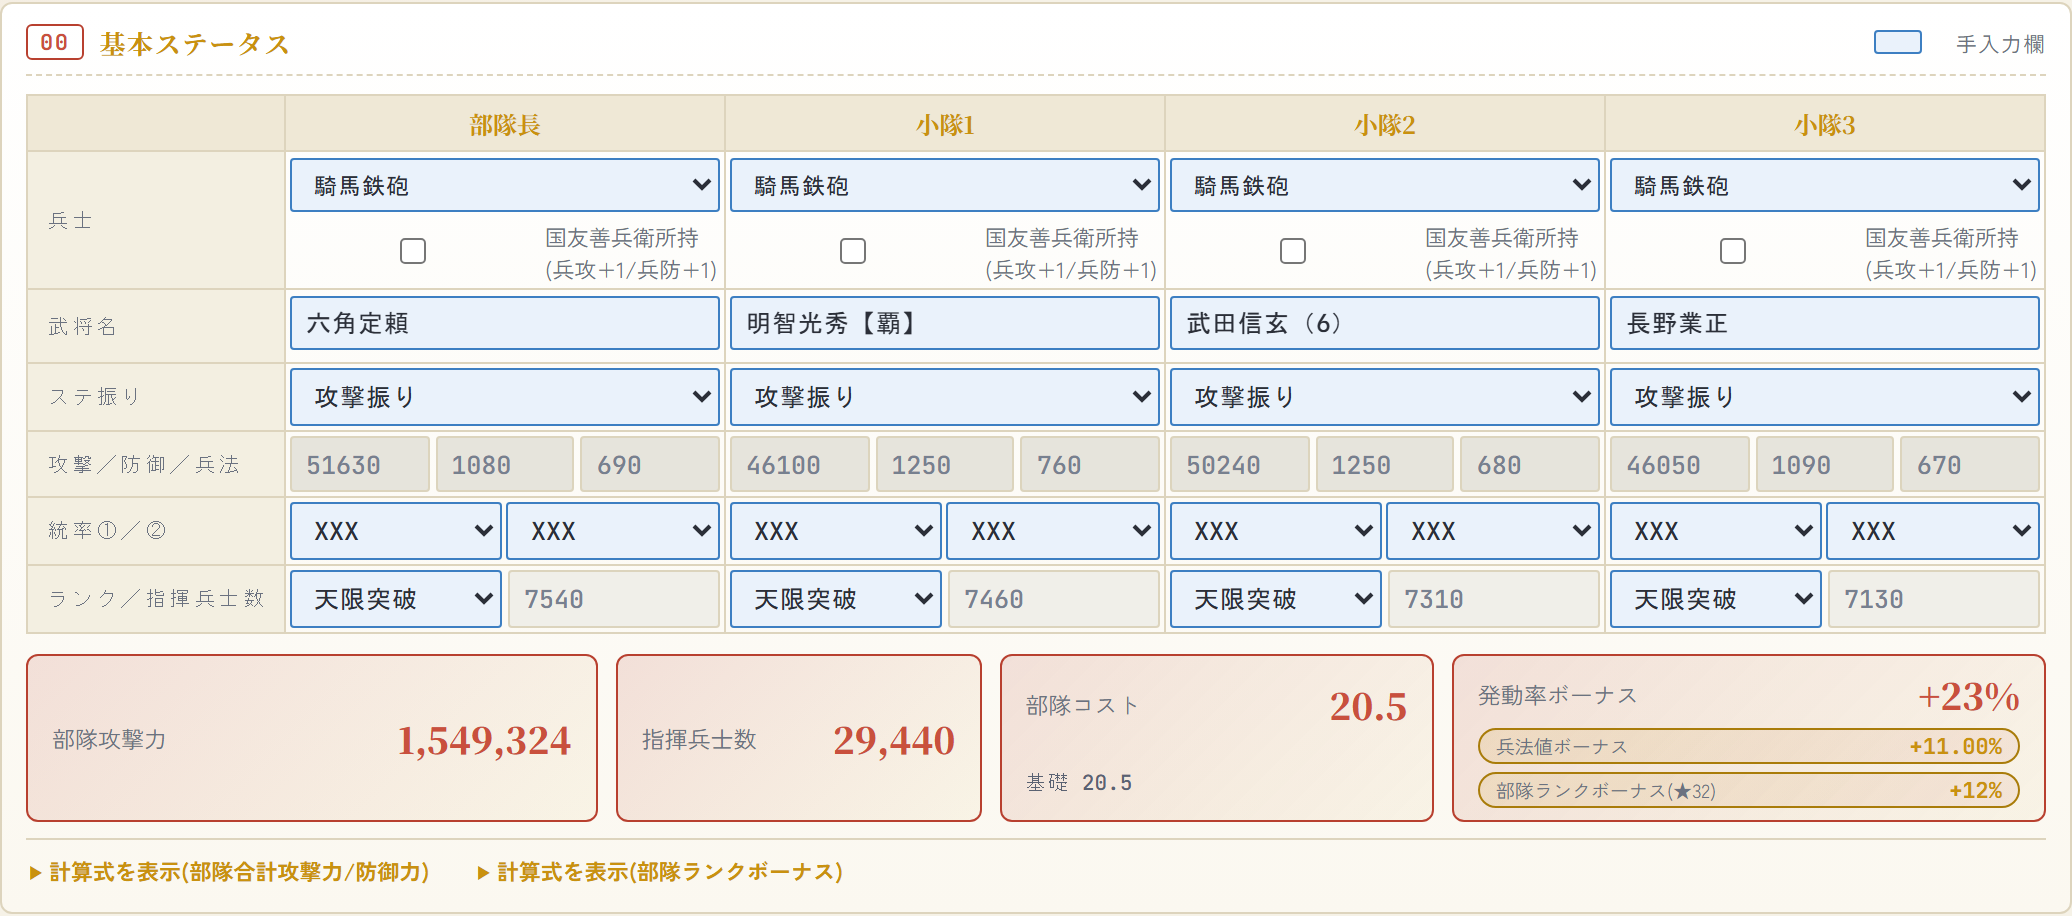
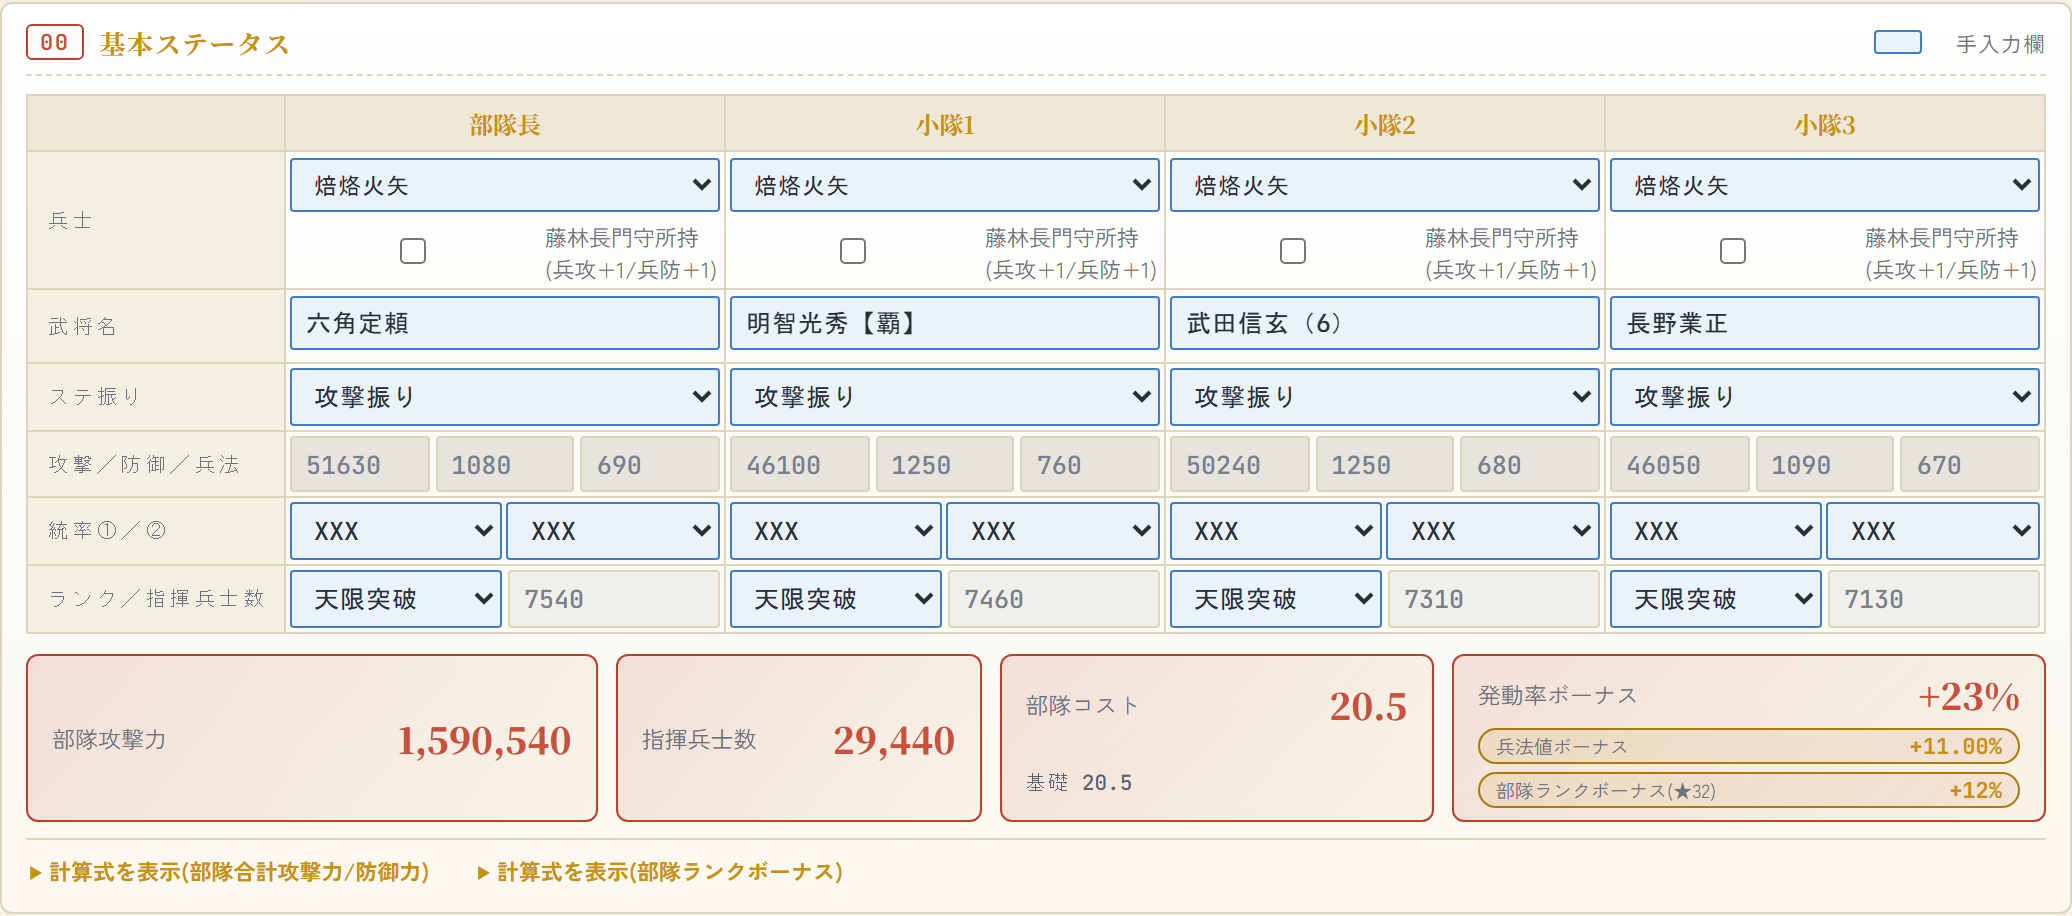
記事「攻撃シミュレーターの使い方」を指摘に沿って修正
■ 文章
- 「ぶん」→「分」(4人分/発動しない枠がある分/陣補正が入っていない分)
- 兵士未選択の説明を実挙動に合わせた(エラーはダイアログで出る。あわせて兵士欄が赤枠)
- 題名・titleタグ・記事一覧のカードに「(v2026-08-12.5 時点)」を付け、リード文にも
  「この版を見て書いている」旨を添えた。シミュレーターを作り替えると記事とずれるため、
  大型更新時は記事ごと作り直す前提で現状の版が分かるようにする

■ 追記した節
- スキルレベル選択: スキル名を選ぶとLV10・TR1〜TR6の選択肢が続けて出ること、
  選ぶと「天弦ノ威軍TR5」のように段階つき表記になること、TR6は一部のみであること
- 名声と防御参加武将数: 名声の補正表(49以下=なし/50〜99=+2%/100以上=+2%+名声÷100、上限+5%)。
  部隊攻撃力には乗らず最終攻撃力にだけ掛かる点も明記
- 総攻撃力を上げるスキルは別扱い: 上昇%欄が「総攻撃力+40%」表示になり、
  16枠の合計には入らず最後に部隊全体へ掛かること
- 画面右下のバージョン表示: 読み方と、不具合報告時に一緒に写してほしい旨

■ 画像
スクリーンショットを撮り直した(assets/img/blog/guide-02〜04を差し替え、06〜09を追加)。
編成を変えて、指摘のあった点が画面に写るようにしている:
  ・スキル名に段階表記(天弦ノ威軍TR5 / 滅神五芒星LV10 / 雄飛新世TR5)が出る
  ・摩利支天ノ法は初期スキルではなく追加1枠に置く
  ・総攻撃力が上がる武将(雄飛新世TR5=総攻撃力+40%)を入れる
  ・名声200を入れて最終攻撃力の式に名声補正(+4.00%)が出る
  ・段階選択リスト(guide-07)、警告表示7種(guide-08)、バージョン表示(guide-09)を追加。
    警告は文字だけでは伝わらないので実物の画像を表に添えた

数値も編成変更に合わせて更新(期待値4億1044万/最大値4億6710万、差5666万)。

検証: 1400px/390pxで画像9枚が読み込め横スクロールが出ないこと、404・JSエラーが
無いこと、題名と記事一覧のカードに版が入っていることを確認。

diff --git a/blog-attack-simulator-guide.html b/blog-attack-simulator-guide.html
@@ -5,7 +5,7 @@
 <meta name="viewport" content="width=device-width, initial-scale=1.0">
 <script async src="https://pagead2.googlesyndication.com/pagead/js/adsbygoogle.js?client=ca-pub-7334304987274613"
      crossorigin="anonymous"></script>
-<title>攻撃シミュレーターの使い方｜戦国IXA シミュレーター置き場</title>
+<title>攻撃シミュレーターの使い方(v2026-08-12.5 時点)｜戦国IXA シミュレーター置き場</title>
 <meta name="description" content="戦国IXAの攻撃/防御シミュレーターの使い方。兵士・武将名・スキルの3つを入れるだけで最終攻撃力が出ます。期待値と最大値の違い、赤枠と警告の意味も解説します。">
 <link rel="stylesheet" href="assets/css/site.css">
 <link rel="icon" href="favicon.ico" sizes="any">
@@ -36,8 +36,8 @@
 
   <main class="site-main article-page">
     <p class="article-meta"><a href="blog.html">記事一覧</a> ／ 2026年8月12日</p>
-    <h1 class="page-title">攻撃シミュレーターの使い方</h1>
-    <p class="page-lead">入れるのは兵士・武将名・スキルの3つだけです。あとは自動で計算されます。</p>
+    <h1 class="page-title">攻撃シミュレーターの使い方(v2026-08-12.5 時点)</h1>
+    <p class="page-lead">入れるのは兵士・武将名・スキルの3つだけです。あとは自動で計算されます。<br><span style="font-size:.88em;color:var(--muted);">この記事はv2026-08-12.5のシミュレーターを見て書いています。画面や数値はその時点のものです(版は画面右下に出ています)。</span></p>
 
     <div class="content-block">
       <p><a href="attack-simulator.html">攻撃/防御シミュレーター</a>は、部隊長と小隊1〜3の計4名分を入力すると、最終攻撃力までを自動で出すツールです。<br>
@@ -57,7 +57,7 @@
 
       <p>上から順に、</p>
       <ol>
-        <li><strong>兵士</strong>をプルダウンで選ぶ。ここを選ばずに計算を押すとエラーになり、選んでいない列が赤枠になります</li>
+        <li><strong>兵士</strong>をプルダウンで選ぶ。選ばずに計算を押すとエラーのダイアログが出て、選んでいない列の兵士欄が赤枠になります</li>
         <li><strong>武将名</strong>を打つ。候補が出るので選べば、攻撃力・防御力・兵法値・指揮兵士数・統率が自動で入ります</li>
         <li><strong>スキル名</strong>を打つ。こちらも候補が出て、選ぶと発動率と上昇%が自動で入ります</li>
       </ol>
@@ -65,7 +65,16 @@
       <p>武将データベースに無い武将や、ステ振りで「バランス振り」を選んだ場合は、攻撃力などを手で打ち込めます。<br>
       ランク(限界突破〜天限突破+0.5)を変えると指揮兵士数とステータスが計算し直されます。</p>
 
-      <p>4人ぶん入れて「計算する」を押すと、こうなります。</p>
+      <p>スキル名を選ぶと、鍛錬の段階があるスキルは<strong>LV10・TR1〜TR6の選択肢</strong>が続けて出ます。ここで選んだ段階の数値で計算されるので、TRを上げた武将は忘れずに選んでください。</p>
+
+      <figure class="article-figure">
+        <img src="assets/img/blog/guide-07-tier.png" alt="スキル名を選んだあとに出るLV10・TR1〜TR5の段階選択" loading="lazy" decoding="async">
+      </figure>
+
+      <p>選ぶとスキル欄が「天弦ノ威軍TR5」のように<strong>段階つきの表記</strong>になります。段階を持たないスキルはこの選択が出ず、名前だけが入ります。<br>
+      TR6が選べるのはパラレル天でのみ解禁される一部のスキルだけです。</p>
+
+      <p>4人分入れて「計算する」を押すと、こうなります。</p>
 
       <figure class="article-figure">
         <img src="assets/img/blog/guide-02-basic-filled.png" alt="4名を入力して計算した後の00基本ステータス欄" loading="lazy" decoding="async">
@@ -91,6 +100,30 @@
 
       <p>部隊ランクボーナスは、4人のランク欄から推測した武将ランク(限界突破=6、極限突破=7、天限突破=8)を合計した★の数で決まります。★1の+0.1%から★32の+12%まで、1段ずつ上がります。4人とも天限突破なら★32で+12%です。</p>
 
+      <h3>名声と防御参加武将数</h3>
+
+      <p>この2つは部隊共通の値なので、01スキル欄の見出しの右端にまとめてあります。</p>
+
+      <figure class="article-figure">
+        <img src="assets/img/blog/guide-06-battlevars.png" alt="防御参加武将数と名声の入力欄" loading="lazy" decoding="async">
+      </figure>
+
+      <p><strong>名声</strong>は所持している名声の値を入れます。最終攻撃力に掛かる補正で、内訳は次のとおりです。</p>
+
+      <div class="table-scroll">
+        <table class="article-table">
+          <thead><tr><th>名声</th><th>補正</th></tr></thead>
+          <tbody>
+            <tr><td>49以下</td><td>補正なし</td></tr>
+            <tr><td>50〜99</td><td>+2%</td></tr>
+            <tr><td>100以上</td><td>+2%+(名声÷100)%(上限+5%)</td></tr>
+          </tbody>
+        </table>
+      </div>
+
+      <p>名声200なら+4%です。部隊攻撃力の欄には反映されず、<strong>最終攻撃力の計算にだけ掛かります</strong>。<br>
+      <strong>防御参加武将数</strong>は、人数依存のスキル(係数×防御参加武将数で効果が決まるもの)の計算に使います。</p>
+
       <div class="article-gap3"></div>
     </div>
 
@@ -102,10 +135,23 @@
       </figure>
 
       <p>スキル名の下の数字が上昇%、その右下に出るのが<strong>実発動率</strong>です。実発動率は、スキル本来の発動率に発動率ボーナスを足した値(上限100%)です。<br>
-      上の画像では部隊長の天弦ノ威軍が45%+23%で68%、小隊1・2の摩利支天ノ法が70%+23%で93%になっています。</p>
+      上の画像は部隊長に六角定頼(天弦ノ威軍TR5)を置き、小隊1〜3の追加1に摩利支天ノ法を入れて部隊長を模倣させた編成です。天弦ノ威軍が45%+23%で68%、それを模倣した摩利支天ノ法が70%+23%で93%になっています。<br>
+      模倣した側の5250%は、模倣元の4200%を1.25倍した値です。</p>
 
-      <p><strong>上昇%の欄が赤枠になっているのは、実発動率が100%に届いていない印です。</strong>青枠のままなら毎回必ず発動します。<br>
-      小隊3の十三ノ奇跡だけ青枠なのは、このスキルの発動率がもともと100%だからです。</p>
+      <p><strong>上昇%の欄が赤枠になっているのは、その数字が満額では入らないという印です。</strong>条件は2つあり、どちらかに当たると赤くなります。</p>
+
+      <ol>
+        <li>実発動率が100%に届いていない(発動しない戦闘がある)</li>
+        <li>卓越の抽選結果しだいで値が変わる(期待値と最大値がずれる)</li>
+      </ol>
+
+      <p>上の画像だと天弦ノ威軍と摩利支天ノ法は1つ目に当たって赤枠です。小隊1の滅神五芒星が青枠なのは、実発動率が100%で卓越も持たないので、書いてある120%がそのまま入るからです。</p>
+
+      <h3>総攻撃力を上げるスキルは別扱い</h3>
+
+      <p>小隊3の追加2に入れた雄飛新世TR5は、上昇%の欄が数字ではなく<strong>「総攻撃力+40%」</strong>という表示になっています。<br>
+      このタイプは16枠の上昇%の合計には入らず、<strong>最後に部隊全体へ掛け算されます</strong>。だから「合計上昇効果」の欄にも出てきません。<br>
+      対象兵科を指揮している列がないと乗らないので、注意してください(雄飛新世は砲・器が対象なので、この編成では焙烙火矢で条件を満たしています)。</p>
 
       <div class="article-gap3"></div>
     </div>
@@ -129,7 +175,7 @@
         </table>
       </div>
 
-      <p>上の例だと期待値1億4664万に対して最大値1億6965万で、2300万ほど差があります。この差は「発動しない枠がある」ぶんです。<br>
+      <p>上の例だと期待値4億1044万に対して最大値4億6710万で、5666万ほど差があります。この差は「発動しない枠がある」分です。<br>
       <strong>発動率100%かつ卓越なし(または卓越確率100%)のスキルだけで組んだときだけ、期待値と最大値が一致します。</strong></p>
 
       <p>どちらを見るべきかは目的によります。1発の上振れを狙うなら最大値、何回も攻撃したときの平均を知りたいなら期待値です。</p>
@@ -144,7 +190,11 @@
       その列で指揮している兵種がスキルの対象外だと、効果は0として扱われます。赤備え(騎馬)の部隊に弓対象のスキルを入れても乗らない、という挙動をそのまま再現しています。<br>
       部隊長模倣も同じで、模倣元のスキルが対象兵科外なら、模倣した側も0になります。</p>
 
-      <p>スキル欄の見出しに出る警告も手がかりになります。</p>
+      <p>スキル欄の見出しに出る警告も手がかりになります。実際にはこう表示されます(下の画像は説明のため7種類すべてを同時に出したものです)。</p>
+
+      <figure class="article-figure">
+        <img src="assets/img/blog/guide-08-warnings.png" alt="スキル欄の見出しに出る警告表示の一覧" loading="lazy" decoding="async">
+      </figure>
 
       <div class="table-scroll">
         <table class="article-table">
@@ -186,9 +236,24 @@
       </figure>
 
       <p>2026年8月12日時点で未対応なのは、陣補正・Xスキル・同時攻撃(4合流)・本丸防御の列位置による補正です。<br>
-      とくに陣補正が入っていないぶん、実際の火力は表示よりもう少し出ます。</p>
+      とくに陣補正が入っていない分、実際の火力は表示よりもう少し出ます。</p>
 
       <p>TR6は32章の天6スキル(覇界ノ天虎・凶狂威令・鳳凰ノ幻華・十三ノ奇跡・天弦ノ威軍・不敗ノ滅陣)だけ選べます。スキル名を入れたあとに出る段階選択でTR6を選ぶと、パラレル天の数値で計算されます。</p>
+
+      <div class="article-gap3"></div>
+    </div>
+
+    <div class="content-block">
+      <h2>8. 画面右下のバージョン表示</h2>
+
+      <figure class="article-figure">
+        <img src="assets/img/blog/guide-09-version.png" alt="画面右下に出るバージョン表示" loading="lazy" decoding="async">
+      </figure>
+
+      <p>右下に小さく出ている「v2026-08-12.5」がシミュレーターの版です。<strong>更新した年月日と、その日の何回目の更新か</strong>を表しています。この例なら2026年8月12日の5回目です。</p>
+
+      <p>数値がおかしいときにこの表示ごとスクリーンショットを撮ってもらえると、どの版で起きたことか分かるので原因を追いやすくなります。<br>
+      修正したと書いてあるのに直っていない場合は、ブラウザが古いファイルを覚えていることがあります。バージョンが上がっていなければ再読み込み(Ctrl+F5)を試してください。</p>
 
       <div class="article-gap4"></div>
 

diff --git a/blog.html b/blog.html
@@ -45,7 +45,7 @@
         <li class="article-card">
           <a class="article-card-link" href="blog-attack-simulator-guide.html">
             <div class="article-card-body">
-              <h2>攻撃シミュレーターの使い方</h2>
+              <h2>攻撃シミュレーターの使い方(v2026-08-12.5 時点)</h2>
               <div class="article-card-date">2026年8月12日</div>
               <p class="article-card-excerpt">攻撃/防御シミュレーターは、部隊長と小隊1〜3の計4名分を入力すると、最終攻撃力までを自動で出すツールです。入力欄が多く見えますが、実際に手で入れるのは3つだけで、残りは武将データベースから引いて埋まります。</p>
             </div>
